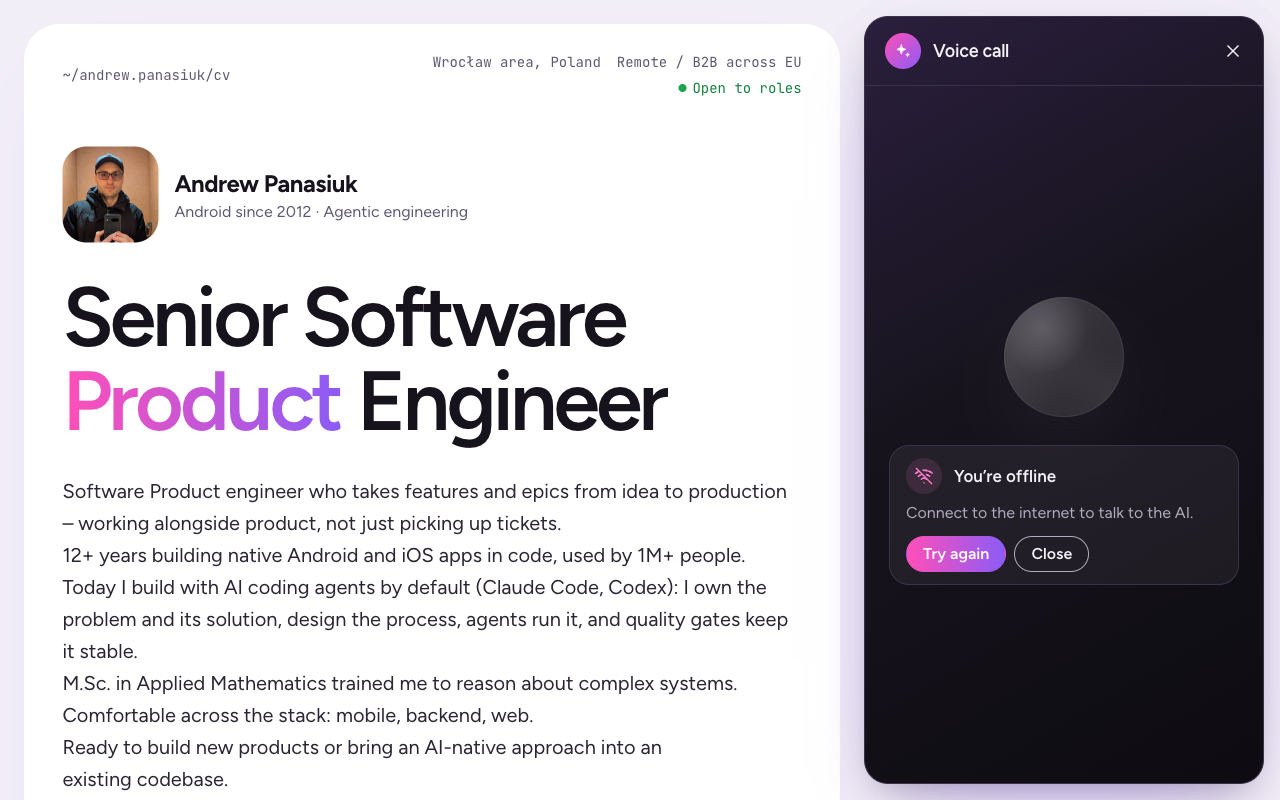
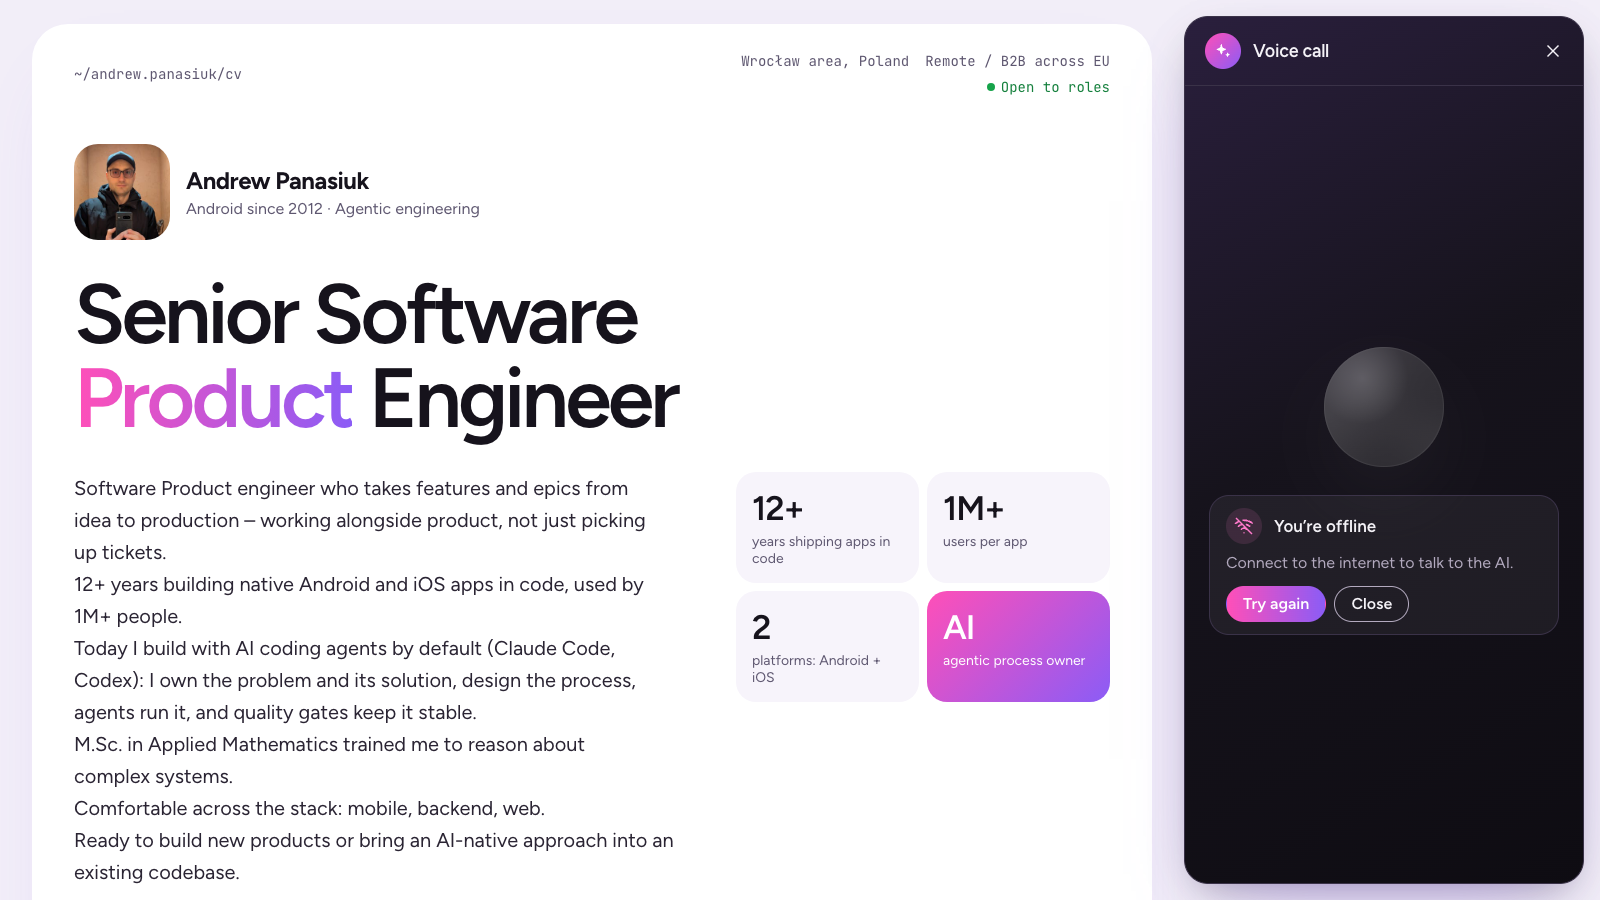
CV-198 Voice design: slide at 1600 x 900, overlay at 1280 x 800, play mode in the mock
Claude-Session: https://claude.ai/code/session_01Qm1zTRdPNnbzCttEXdDa15

Changed region(s): [[0.0312, 0.0, 1.0, 1.0], [0.7812, 0.375, 0.9062, 0.5312], [0.0625, 0.0625, 0.1562, 0.125]]

diff --git a/docs/design/voice/mock.html b/docs/design/voice/mock.html
@@ -5,9 +5,11 @@
     state = launcher | text | connecting | listening (default) | speaking | muted | typed | tool |
             confirm | warning | chat | minimized | ended | error-denied | error-failed |
             error-busy | error-ratelimited | error-dropped | error-callcap | error-monthly | offline
-  Column layout at >= 1024 px wide, phone sheet below 600 px. The page behind is a screenshot of
-  production (assets/voice_backdrop_*): for the column states it was taken with the page already
-  reserving the column, so the narrowed page is exact.
+    play  (no value) = replay the column's opening on load; click anywhere to close / open again
+  Layouts: slide at >= 1584 px wide (the column docks, the page slides left by half the dock
+  width), overlay at 600-1583 px (the floating card over the unmoved page), phone below 600 px.
+  The page behind is a screenshot of production (assets/voice_backdrop_*); the slide shifts that
+  image exactly as the shell's transform shifts the page (nothing reflows).
   Screenshots: render.sh next to this file.
 -->
 <html lang="en">
@@ -42,6 +44,10 @@
         --chat-motion-exit-easing: cubic-bezier(0.4, 0, 1, 1);
         --voice-chat-toggle-width: 112px;
         --voice-orb-travel-duration: 300ms;
+        /* v3 (CV-198): the CV card slides left with the column */
+        --chat-slide-duration: 500ms;
+        --chat-slide-exit-duration: 400ms;
+        --chat-slide-easing: cubic-bezier(0.4, 0, 0.2, 1);
       }
 
       *,
@@ -755,6 +761,35 @@
         }
       }
 
+      /* ---- Slide (>= 1584 px): the page behind moves left by half the dock width ---- */
+      body.slide {
+        background-position: calc(var(--chat-dock-width) / -2) 0;
+      }
+      /* ?play: the page and the column move on one timing (the column's keyframes in the build). */
+      body.play {
+        transition: background-position var(--chat-slide-exit-duration) var(--chat-slide-easing);
+      }
+      body.play.slide {
+        transition-duration: var(--chat-slide-duration);
+      }
+      body.play .column {
+        transition: transform var(--chat-slide-exit-duration) var(--chat-slide-easing);
+      }
+      body.play.slide .column {
+        transition-duration: var(--chat-slide-duration);
+      }
+      body.play:not(.slide) .column {
+        transform: translateX(calc(100% + var(--space-4)));
+      }
+
+      /* ---- Overlay (600-1583 px): the floating card over the page, which doesn't move ---- */
+      @media (min-width: 600px) and (max-width: 1583px) and (min-height: 500px) {
+        .column {
+          top: auto;
+          height: min(var(--chat-panel-height), calc(100dvh - 2 * var(--space-4)));
+        }
+      }
+
       /* ---- Phone (<= 599 px): the call is a bottom sheet, the chat a full-screen sheet ---- */
       @media (max-width: 599px), (max-height: 499px) {
         :root {
@@ -803,7 +838,8 @@
       const p = new URLSearchParams(location.search);
       const state = p.get('state') || 'listening';
       const phone = matchMedia('(max-width: 599px), (max-height: 499px)').matches;
-      const form = phone ? 'mobile' : 'desktop';
+      const slide = matchMedia('(min-width: 1584px) and (min-height: 500px)').matches;
+      const form = phone ? 'mobile' : slide ? 'desktop' : 'laptop';
 
       const icon = (name) => `<span class="icon i-${name}" aria-hidden="true"></span>`;
       const ring = (sec) => {
@@ -1013,19 +1049,22 @@
           ),
       };
 
-      // The page behind: the column states sit over a page that already reserves the column.
-      const fullWidth = ['launcher', 'minimized'].includes(state);
-      const backdrop = phone
-        ? state === 'tool'
-          ? 'tool_mobile'
-          : 'top_mobile'
-        : fullWidth
-          ? 'top_desktop'
-          : state === 'tool'
-            ? 'column-tool_desktop'
-            : 'column_desktop';
+      // The page behind. Slide: shifted left while the column is open (not for the launcher and
+      // the pill); overlay and phone: never moves.
+      const open = !['launcher', 'minimized'].includes(state);
+      const backdrop = `${state === 'tool' ? 'tool' : 'top'}_${form}`;
       document.body.style.backgroundImage = `url(assets/voice_backdrop_${backdrop}.png)`;
       document.getElementById('app').innerHTML = (states[state] || states.listening)();
+      const docked = slide && open;
+      if (docked && p.has('play')) {
+        document.body.classList.add('play');
+        requestAnimationFrame(() =>
+          requestAnimationFrame(() => document.body.classList.add('slide')),
+        );
+        addEventListener('click', () => document.body.classList.toggle('slide'));
+      } else if (docked) {
+        document.body.classList.add('slide');
+      }
       document.documentElement.dataset.form = form;
     </script>
   </body>
